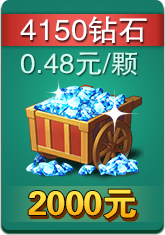
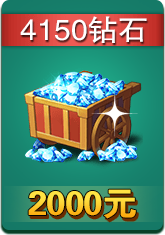
201808101101

Changed region(s): [[0.1212, 0.2085, 0.8788, 0.7745]]

diff --git a/Xiu_Game/app/Common/CommClass.php b/Xiu_Game/app/Common/CommClass.php
@@ -584,74 +584,35 @@ use Aliyun\DySDKLite\SignatureHelper;
         try{
             $wx_order = DB::table('v_buycard_list')->where([['nonce', $order_no],['status',0]])->first();
             if (!empty($wx_order)) {
-                $total = $wx_order->total;
-                //首冲
-                if($wx_order->flag == 0){
-                    //首冲套餐
-                    if($wx_order->isfirst == 1){
-                        CommClass::InsertCard(['cbuyid' => $wx_order->userid, 'csellid' => 999, 'cnumber' => 400]) ;
-                    }else{
-                        CommClass::InsertCard(['cbuyid' => $wx_order->userid, 'csellid' => 999, 'cnumber' => $wx_order->cardnum]);
-                    }
-                    $up_arr = ['flag' => 1];
-                    if($wx_order->rid == 5){
-                        $up_arr["rid"] = 2 ;
-                    }
-                    if(empty($wx_order->front_uid)
-                        && !empty($wx_order->front)
-                        && $wx_order->front != $wx_order->userid
-                        && !empty($wx_order->frid)
-                        && $wx_order->frid == 2){
-                        $up_arr["front_uid"] = $wx_order->front ;
-                        //绑定代理送100钻石
-                        CommClass::InsertCard(['cbuyid' => $wx_order->userid, 'csellid' => 999, 'cnumber' => 100, 'buytype' => 3]);
-                        //上级送100返利
-                        DB::table("xx_wx_backgold")->insert(
-                            ['get_id'=>$wx_order->front,
-                                'back_id'=>$wx_order->userid,
-                                'backgold'=>100,
-                                'gold'=>$wx_order->total,
-                                'ratio'=>0,
-                                'level'=>5]);
-                        //$total -= 100;
-                    }
+                //冲钻
+                CommClass::InsertCard(['cbuyid' => $wx_order->userid, 'csellid' => 999, 'cnumber' => $wx_order->cardnum]);
+                $up_arr = [];
+                //如果是玩家冲钻，设为普通代理
+                if($wx_order->rid == 5){
+                    $up_arr["rid"] = 2 ;
+                }
+                //填写了推荐人，赠送100钻石
+                if(empty($wx_order->front_uid)
+                    && !empty($wx_order->front)
+                    && $wx_order->front != $wx_order->userid
+                    && !empty($wx_order->frid)
+                    && $wx_order->frid == 2) {
+                    $up_arr["front_uid"] = $wx_order->front;
+                    //绑定代理送100钻石
+                    CommClass::InsertCard(['cbuyid' => $wx_order->userid, 'csellid' => 999, 'cnumber' => 100, 'buytype' => 3]);
+                }
+                //如果不为空，更新玩家的信息
+                if(!empty($up_arr)){
                     //更新我的角色
                     DB::table('xx_user')->where('uid', $wx_order->userid)->update($up_arr);
                     //更新玩家角色
                     CommClass::UpGameSer($wx_order->userid,'role');
-                    //首次绑定代理返利
-                    //CommClass::FirstBindBackCash($wx_order->userid, $total);
-                }else{
-                    CommClass::InsertCard(['cbuyid' => $wx_order->userid, 'csellid' => 999, 'cnumber' => $wx_order->cardnum]);
-                    //绑定代理
-                    if(empty($wx_order->front_uid)
-                        && !empty($wx_order->front)
-                        && $wx_order->front != $wx_order->userid
-                        && !empty($wx_order->frid)
-                        && $wx_order->frid == 2){
-                        DB::table('xx_user')->where('uid',$wx_order->userid)->update(['front_uid'=>$wx_order->front]);
-                        //绑定代理送100钻石
-                        CommClass::InsertCard(['cbuyid' => $wx_order->userid, 'csellid' => 999, 'cnumber' => 100, 'buytype' => 3]);
-
-                        DB::table("xx_wx_backgold")->insert(
-                            ['get_id'=>$wx_order->front,
-                                'back_id'=>$wx_order->userid,
-                                'backgold'=>100,
-                                'gold'=>$wx_order->total,
-                                'ratio'=>0,
-                                'level'=>5]);
-                        //$total -= 100;
-                        //首次绑定代理返利
-                        //CommClass::FirstBindBackCash($wx_order->userid, $total);
-                    }
                 }
                 //代理返利
-                CommClass::BackCash($wx_order->userid, $total);
-
+                CommClass::BackCash($wx_order->userid, $wx_order->total);
                 //更新订单状态
                 DB::table('xx_wx_buycard')->where('nonce', $order_no)->update(['status'=>1]);
-
-                //1小时内购买超过5000，赠送2980钻石   yi
+                //1小时内购买超过5000，赠送2980钻石，每天一次
                 $play_user = Users::find($wx_order->userid);
                 if(!empty($play_user) && $play_user->iszs == 0){
                     $start =  date('Y-m-d h:i:s', strtotime('-1 hour'));

diff --git a/Xiu_Game/resources/views/BuyCard/palyerbuy.blade.php b/Xiu_Game/resources/views/BuyCard/palyerbuy.blade.php
@@ -46,38 +46,13 @@
     </div>
     <div style="margin-top:5px;" id="mall">
         @if(!empty($mallList))
-            {{--<div  style="margin-left:5%;">--}}
-            {{--@for($i=0;$i<count($mallList);$i++)--}}
-                {{--@if($i%3>0)--}}
-                    {{--@if($mallList[$i]->isfirst == 1 && !empty($player) && $player->flag == 0)--}}
-                        {{--<img class="img_border " width="28%" src="/img/diamond/f{{$mallList[$i]->img}}?v=20180703" id="{{$mallList[$i]->sid}}" onclick="img_click(this)" />--}}
-                    {{--@else--}}
-                        {{--<img class="img_border " width="28%" src="/img/diamond/{{$mallList[$i]->img}}?v=20180703" id="{{$mallList[$i]->sid}}" onclick="img_click(this)"/>--}}
-                    {{--@endif--}}
-                {{--@else--}}
-                    {{--@if($mallList[$i]->isfirst == 1 && !empty($player) && $player->flag == 0)--}}
-                        {{--</div><div style="margin-left:5%;"><img class="img_border " width="28%" src="/img/diamond/f{{$mallList[$i]->img}}?v=20180703" id="{{$mallList[$i]->sid}}" onclick="img_click(this)" />--}}
-                    {{--@else--}}
-                        {{--</div><div style="margin-left:5%;"><img class="img_border " width="28%" src="/img/diamond/{{$mallList[$i]->img}}?v=20180703" id="{{$mallList[$i]->sid}}" onclick="img_click(this)"/>--}}
-                    {{--@endif--}}
-                {{--@endif--}}
-            {{--@endfor--}}
-            {{--</div>--}}
             @foreach($mallList as $item)
-                @if($item->isfirst == 1 && !empty($player) && $player->flag == 0)
-                    <img class="img_border " width="22%" src="/img/diamond/f{{$item->img}}?v=2018072001" id="{{$item->sid}}" onclick="img_click(this)" />
-                @else
-                    <img class="img_border " width="22%" src="/img/diamond/{{$item->img}}?v=2018072001" id="{{$item->sid}}" onclick="img_click(this)"/>
-                @endif
+                <img class="img_border " width="22%" src="/img/diamond/{{$item->img}}?v=20180810" id="{{$item->sid}}" onclick="img_click(this)"/>
             @endforeach
         @endif
     </div>
     <div style="margin-top:5px;text-align: center;" id="first">
-        @if(!empty($player) && $player->flag == 0)
-            <img class="img_border " width="95%" src="/img/diamond/first.png?v=2018080901" />
-        @else
-            <img class="img_border " width="95%" src="/img/diamond/warning.png" />
-        @endif
+        <img class="img_border " width="95%" src="/img/diamond/first.png?v=2018080901" />
     </div>
     <div style="width: 100%;text-align: center;">
         <img class="img_border " width="95%" src="/img/diamond/title.png">
@@ -100,11 +75,6 @@
                 <img class="img_border " width="35%" src="/img/diamond/query.png" />
             </a>
         </div>
-        {{--<div style="width: 100%;margin-top: 3px;">--}}
-            {{--<a href="javascript:window.location.href='/PlayerBuy/list/'+$('#plyerid').val()"  >--}}
-                {{--<img class="img_border " width="20%" src="/img/diamond/buylist.png" />--}}
-            {{--</a>--}}
-        {{--</div>--}}
     </div>
     <input type="hidden" id="sid">
 </div>
@@ -134,23 +104,12 @@
                     $.alert('玩家ID错误，找不到该玩家昵称!');
                 }else{
                     $("#nick").html(reslut.user['nickname']);
-                    $("#first").empty()
-                    if(reslut.user['flag'] == 0){
-                        $("#11").attr('src','/img/diamond/f300.png?v=2018072001');
-                        //$("#mall").prepend("<img class=\"img_border \" width=\"28%\" src=\"/img/diamond/f300.png\" id='11' onclick=\"img_click(this)\" />")
-                        $("#first").append("<img class=\"img_border \" width=\"95%\" src=\"/img/diamond/first.png\" />");
-                    }else{
-                        $("#11").attr('src','/img/diamond/300.png?v=2018072001');
-                        //$("#mall").prepend("<img class=\"img_border \" width=\"28%\" src=\"/img/diamond/300.png\" id='11' onclick=\"img_click(this)\" />")
-                        $("#first").append("<img class=\"img_border \" width=\"95%\" src=\"/img/diamond/warning.png\" />");
-                    }
                     if(comm.is_null(reslut.user['front_uid']) && reslut.user['front_uid']!=0){
-                        //$("#front").val(reslut.user['front_uid']).attr("readonly","readonly").removeClass().addClass("front_input_red");
                         $("#div_front").empty()
                     }else {
                         $("#div_front").empty().append("<div style='width:100%;margin-top: 5px;'>"+
                             "<div style='float: left;width: 50%;text-align: right;'>"+
-                            "<p style='font-size: 1rem;color: #0f695f;font-weight: 500;'>推荐代理ID：</p></div>"+
+                            "<p style='font-size: 0.9rem;color: #0f695f;font-weight: 500;'>推荐代理ID：</p></div>"+
                             "<div style='float: right;width: 50%;text-align: left;'>"+
                             "<input id='front' type='number' class='front_input' value='"+reslut.user['chief_uid']+"' ></div></div>");
                     }
